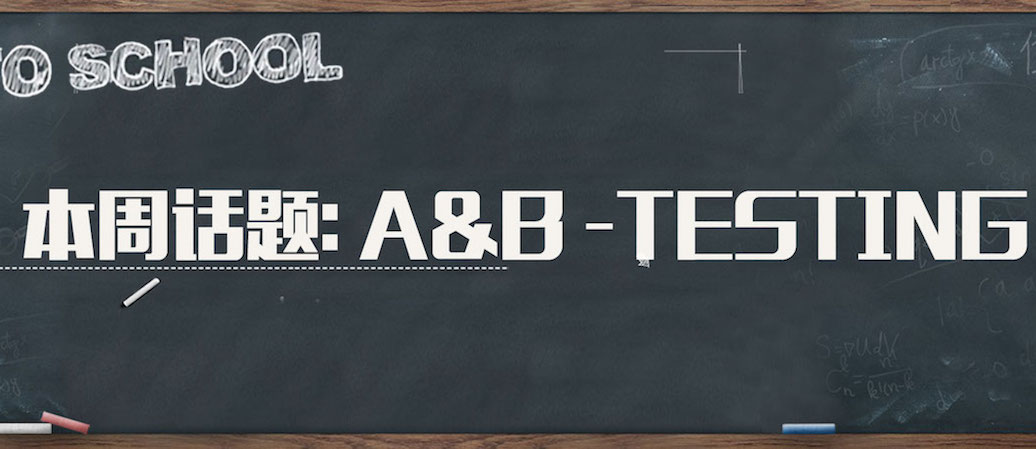
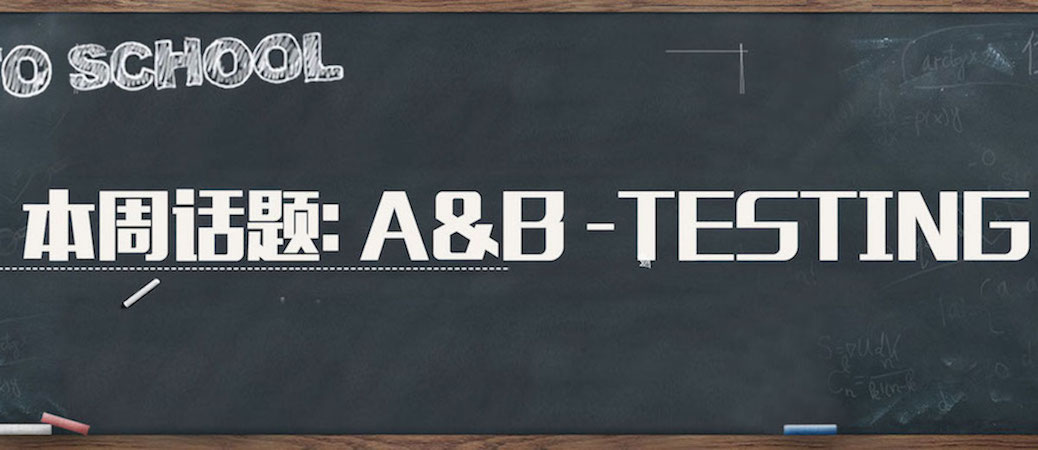
adjust photo size

diff --git a/app/assets/stylesheets/application.scss b/app/assets/stylesheets/application.scss
@@ -105,7 +105,9 @@ a:hover, a:focus {
   padding-top: 60px;
 }
 
-
+.navbar-content-width {
+  width: 1140px;
+}
 
 .search-form {
   padding-top: 7.5px;
@@ -122,7 +124,6 @@ a:hover, a:focus {
 }
 
 .navbar-inverse .navbar-nav > .open > a:focus{
-   background-color:#154c19;
    color: #fff;
 }
 

diff --git a/app/assets/stylesheets/welcome.scss b/app/assets/stylesheets/welcome.scss
@@ -125,11 +125,3 @@ padding-left: 20px;
   color: green;
   font-weight: bold;
 }
-
-// .carousel-inner {
-//   height: 400px;
-//   min-width: 1200px;
-//   overflow: hidden;
-//   background-repeat: no-repeat;
-//   background-position: center center;
-// }

diff --git a/app/assets/stylesheets/account/user.scss b/app/assets/stylesheets/account/user.scss
@@ -75,3 +75,10 @@
 .btn-pref .btn {
     -webkit-border-radius:0 !important;
 }
+
+.user-footer {
+  position: absolute;
+ right: 0;
+ bottom: 0;
+ left: 0;
+}

diff --git a/app/controllers/account_controller.rb b/app/controllers/account_controller.rb
@@ -3,7 +3,7 @@ class AccountController < ApplicationController
   before_action :set_account_breadcrumbs
 
   def set_account_breadcrumbs
-    @breadcrumbs = [view_context.link_to("个人中心", account_users_path(current_user))]
+    @breadcrumbs = [view_context.link_to("个人中心", account_users_path)]
   end
 
   def drop_account_breadcrumb(title = nil, url = nil)

diff --git a/app/controllers/account/posts_controller.rb b/app/controllers/account/posts_controller.rb
@@ -1,4 +1,5 @@
 class Account::PostsController < AccountController
+  layout "user"
   before_action :authenticate_user!
   before_action :drop_account_breadcrumb
 

diff --git a/app/controllers/account/users_controller.rb b/app/controllers/account/users_controller.rb
@@ -1,4 +1,5 @@
 class Account::UsersController < AccountController
+  layout "user"
   before_action :authenticate_user!
   before_action :drop_account_breadcrumb
 
